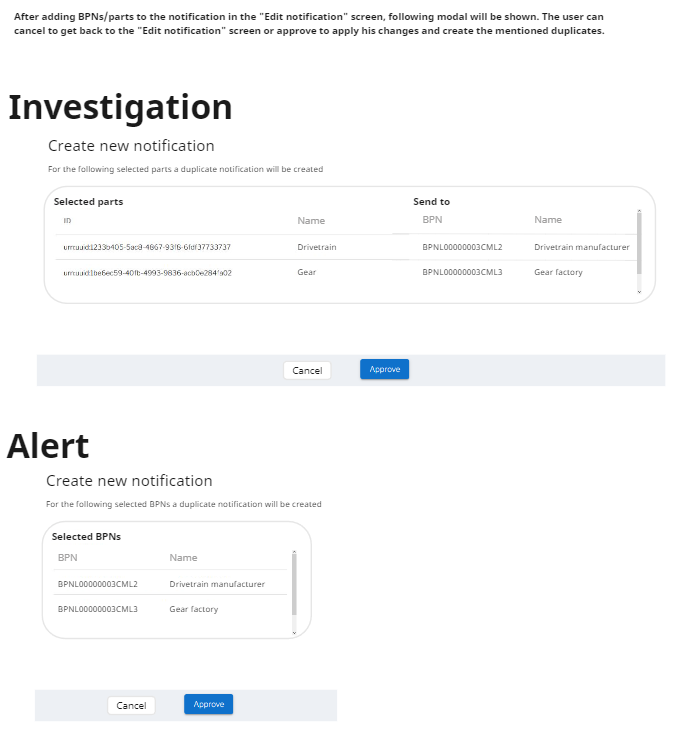
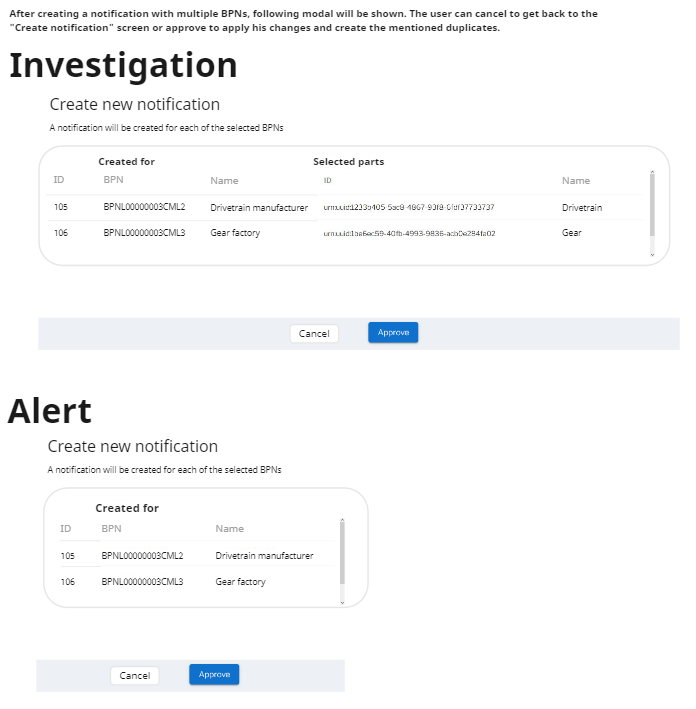
chore(concept): #849 update concept

diff --git a/docs/concept/#849-notifications-to-multiple-bpns/#849-notifications-to-multiple-bpns.md b/docs/concept/#849-notifications-to-multiple-bpns/#849-notifications-to-multiple-bpns.md
@@ -31,28 +31,26 @@ Those can be individually edited and sent to the specific BPN.
 # Out of scope
 - A hierarchical parent object, that ties all the duplicated notifications together. For now, the user must search/filter for all individual notifications if he wants to interact with all of them.
 In the future, the idea is to bundle all duplicated notifications in a parent object that can be searched/filtered for.
+- A duplication process for the user. In case the user wants to retroactively add BPNs to an existing notification or send a notification to a BPN that was not selected during the creation of this notification,
+he must create a new notification and copy the data. In the future, there might be the possibility to add a "Duplicate notification" or "Copy notification" process to Trace-X, but that is out of scope for this concept.
 
 # Concept
 ## Backend
 
 #### Alert creation
 When an alert is created, multiple BPNs can be selected. For each of the recipients the notification will be duplicated.
-The data will be identical except for the "sendTo" and "sendToName" fields.
+The data will be identical except for the "createdFor" and "createdForName" fields.
 If the data must be changed, the user can do it afterward in the "edit notification" view.
 
 #### Investigation creation
 When an investigation is created, multiple parts can be selected. Whenever a part from a different BPN is selected, the notification will be duplicated.
-The data will be identical except for the "sendTo", "sendToName" and "assetIds" fields. Each notification will only contain parts from the same BPN.
+The data will be identical except for the "createdFor", "createdForName" and "assetIds" fields. Each notification will only contain parts from the same BPN.
 If the data must be changed, the user can do it afterward in the "edit notification" view.
 
-#### Edit alerts
-When editing an alert, only one BPN is shown since alerts to multiple BPNs are separate duplicated alerts. Removing this BPN is not possible.
-Adding BPNs is possible. In case a BPN is added, a duplicated alert will be created with the new BPN as receiver. The original alert will be unaffected.
-
-#### Edit investigations
-When editing investigations, BPNs can not be added or removed. Parts can be added or removed.
-For each investigation only the parts of the selected BPN are shown. Removing parts will not affect the BPN selection. Removing *all* parts is not possible.
-Adding parts with different BPNs is possible. In that case, a duplicated alert will be created with the new BPN as receiver. The original investigation will be unaffected.
+#### Edit notifications
+When editing notifications, only parts with the identical BPN as the "createdFor" BPN will be shown and the user may not add BPNs manually.
+There is no possibility to create a new notification from the "Edit notifications" process.
+If the user wants to send an existing notification to a different BPN, he must copy the data and use the "Create notification" process.
 
 ### Data model
 The data model must be changed to reflect the needed changes. The suggestion is to remove the "message" object (which reflected individual notifications).
@@ -67,25 +65,20 @@ Additionally, the error messages should have more relevant information and shoul
     "description": "Notification description",
     "createdBy": "BPNL00000003CNKC",
     "createdByName": "TEST_BPN_IRS_1",
-    "sendTo": "BPNL00000003CML1",
-    "sendToName": "TEST_BPN_DFT_1",
-    "createdDate": "2024-04-09T00:00:00.000000Z",
-+   "sentDate": "2024-04-10T01:00:00.000000Z",
-+   "acknowledgedDate": "2024-04-12T01:00:00.000000Z",
-+   "acceptedDate": null,
-+   "declinedDate": null,
+-   "sendTo": "BPNL00000003CML1",
+-   "sendToName": "TEST_BPN_DFT_1",
++   "createdFor": "BPNL00000003CML1",
++   "createdForName": "TEST_BPN_DFT_1",
+-   "createdDate": "2024-04-09T00:00:00.000000Z",
     "assetIds": [
         "urn:uuid:1be6ec59-40fb-4993-9836-acb0e284fa02"
     ],
     "channel": "SENDER",
 -   "reason": {
-+   "message": {
-        "close": null,
-        "accept": null,
-        "decline": null
-    },
-    "sendTo": "BPNL00000003CML1",
-    "sendToName": "TEST_BPN_DFT_1",
+-       "close": null,
+-       "accept": null,
+-       "decline": null
+-   },
     "severity": "MINOR",
     "type": "ALERT",
     "targetDate": null,
@@ -101,15 +94,43 @@ Additionally, the error messages should have more relevant information and shoul
 +           "date": "2024-04-10T00:00:00.000000Z"
 +       }
 +   ]
++   "messageHistory": [
++       {
++           "createdDate": "2024-04-09T00:00:00.000000Z"
++       },
++       {
++           "sentDate": "2024-04-10T01:00:00.000000Z",
++           "receiver": "BPNL00000003CML1"
++       },
++       {
++           "acknowledgedDate": "2024-04-12T01:00:00.000000Z",
++           "receiver": "BPNL00000003CNKC"
++       },
++       {
++           "acceptedDate": null,
++           "acceptedMessage": null,
++           "receiver": "BPNL00000003CNKC"
++       },
++       {
++           "declinedDate": null,
++           "declinedMessage": null,
++           "receiver": "BPNL00000003CNKC"
++       },
++       {
++           "closedDate": null,
++           "closedMessage": null,
++           "receiver": "BPNL00000003CML1"
++       }
++   ]
 -   "messages": []
 }
 ```
 
 ## Frontend
 ![multiple-bpns-modals.png](multiple-bpns-modals.png)
-See https://miro.com/app/board/uXjVO5JVoho=/?moveToWidget=3458764586657591852&cot=10
+![notification-creation-bpn-selection.png](notification-creation-bpn-selection.png)
 
-Apart from these modals, nothing else must be changed in the frontend
+See https://miro.com/app/board/uXjVO5JVoho=/?moveToWidget=3458764586657591852&cot=10
 
 # Additional Details
 Given the dynamic nature of ongoing development, there might be variations between the conceptualization and the current implementation. For the latest status, refer to the documentation.
